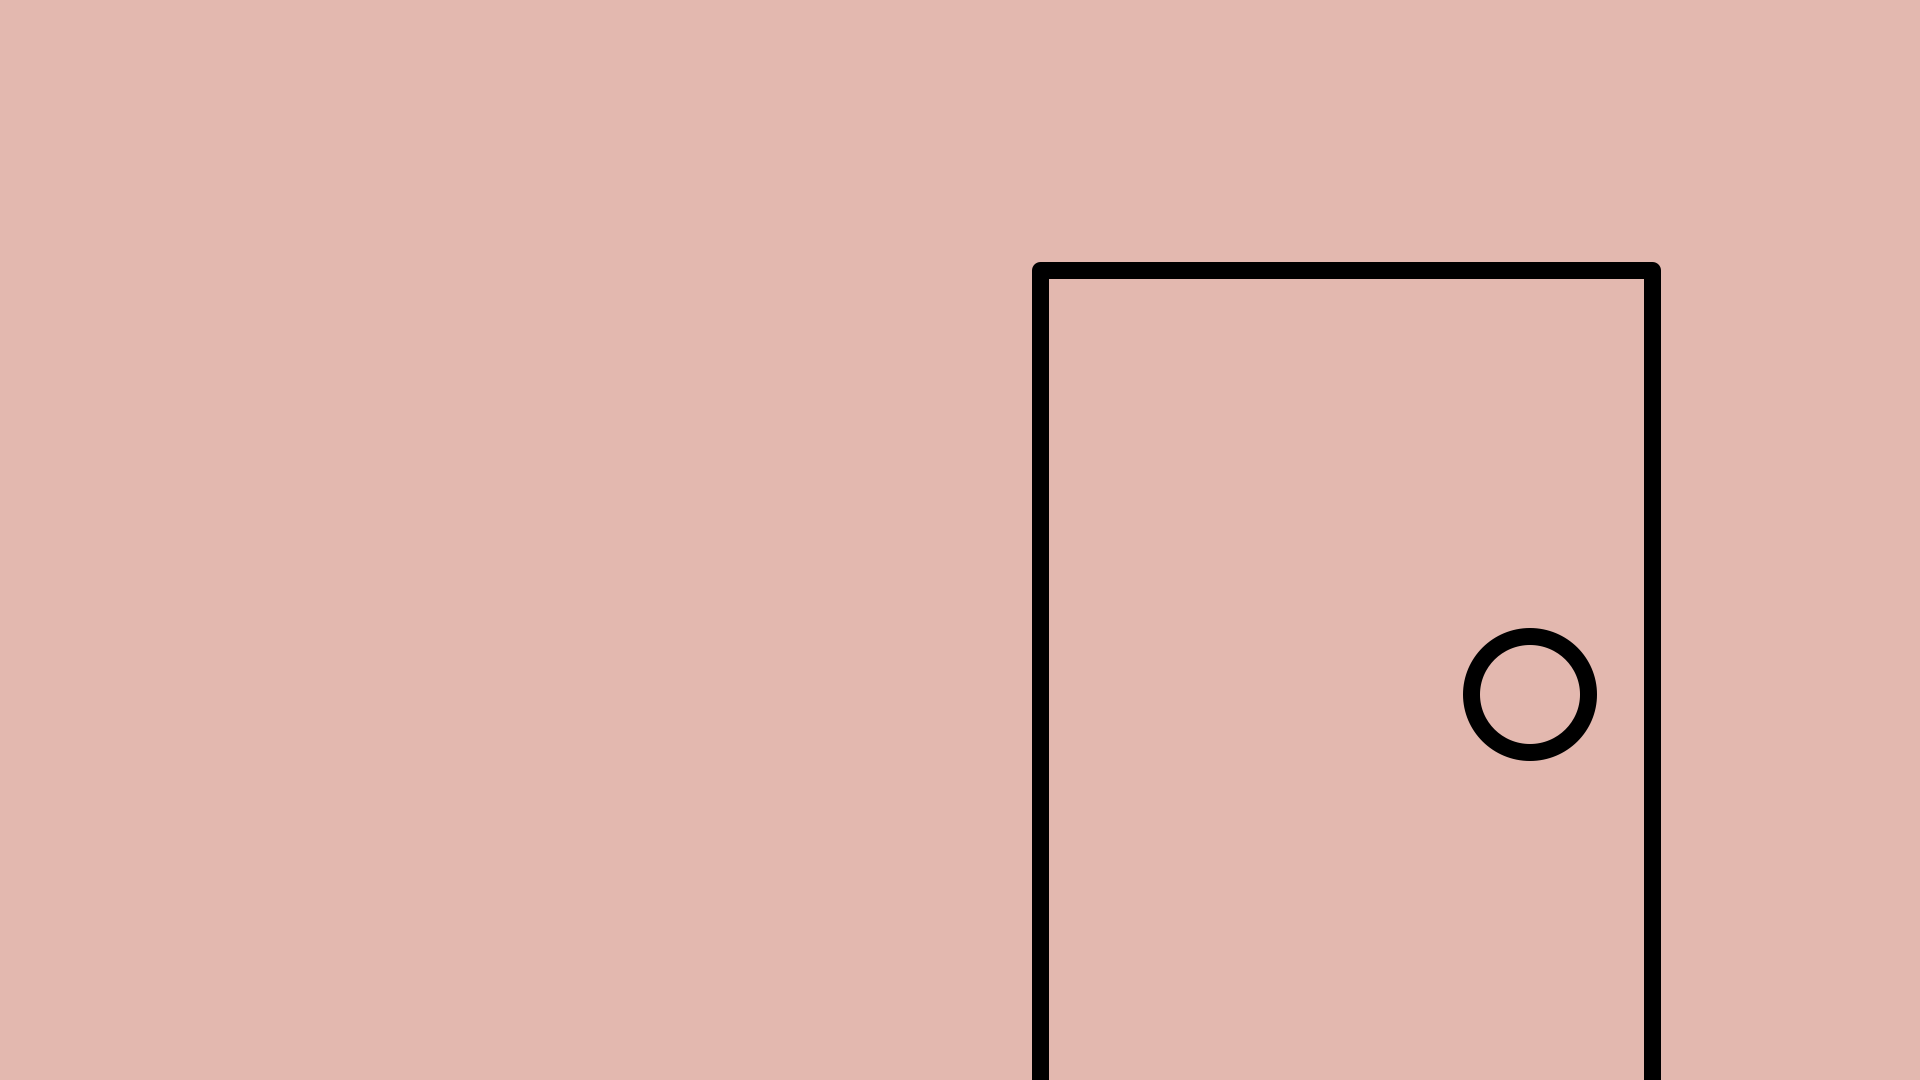
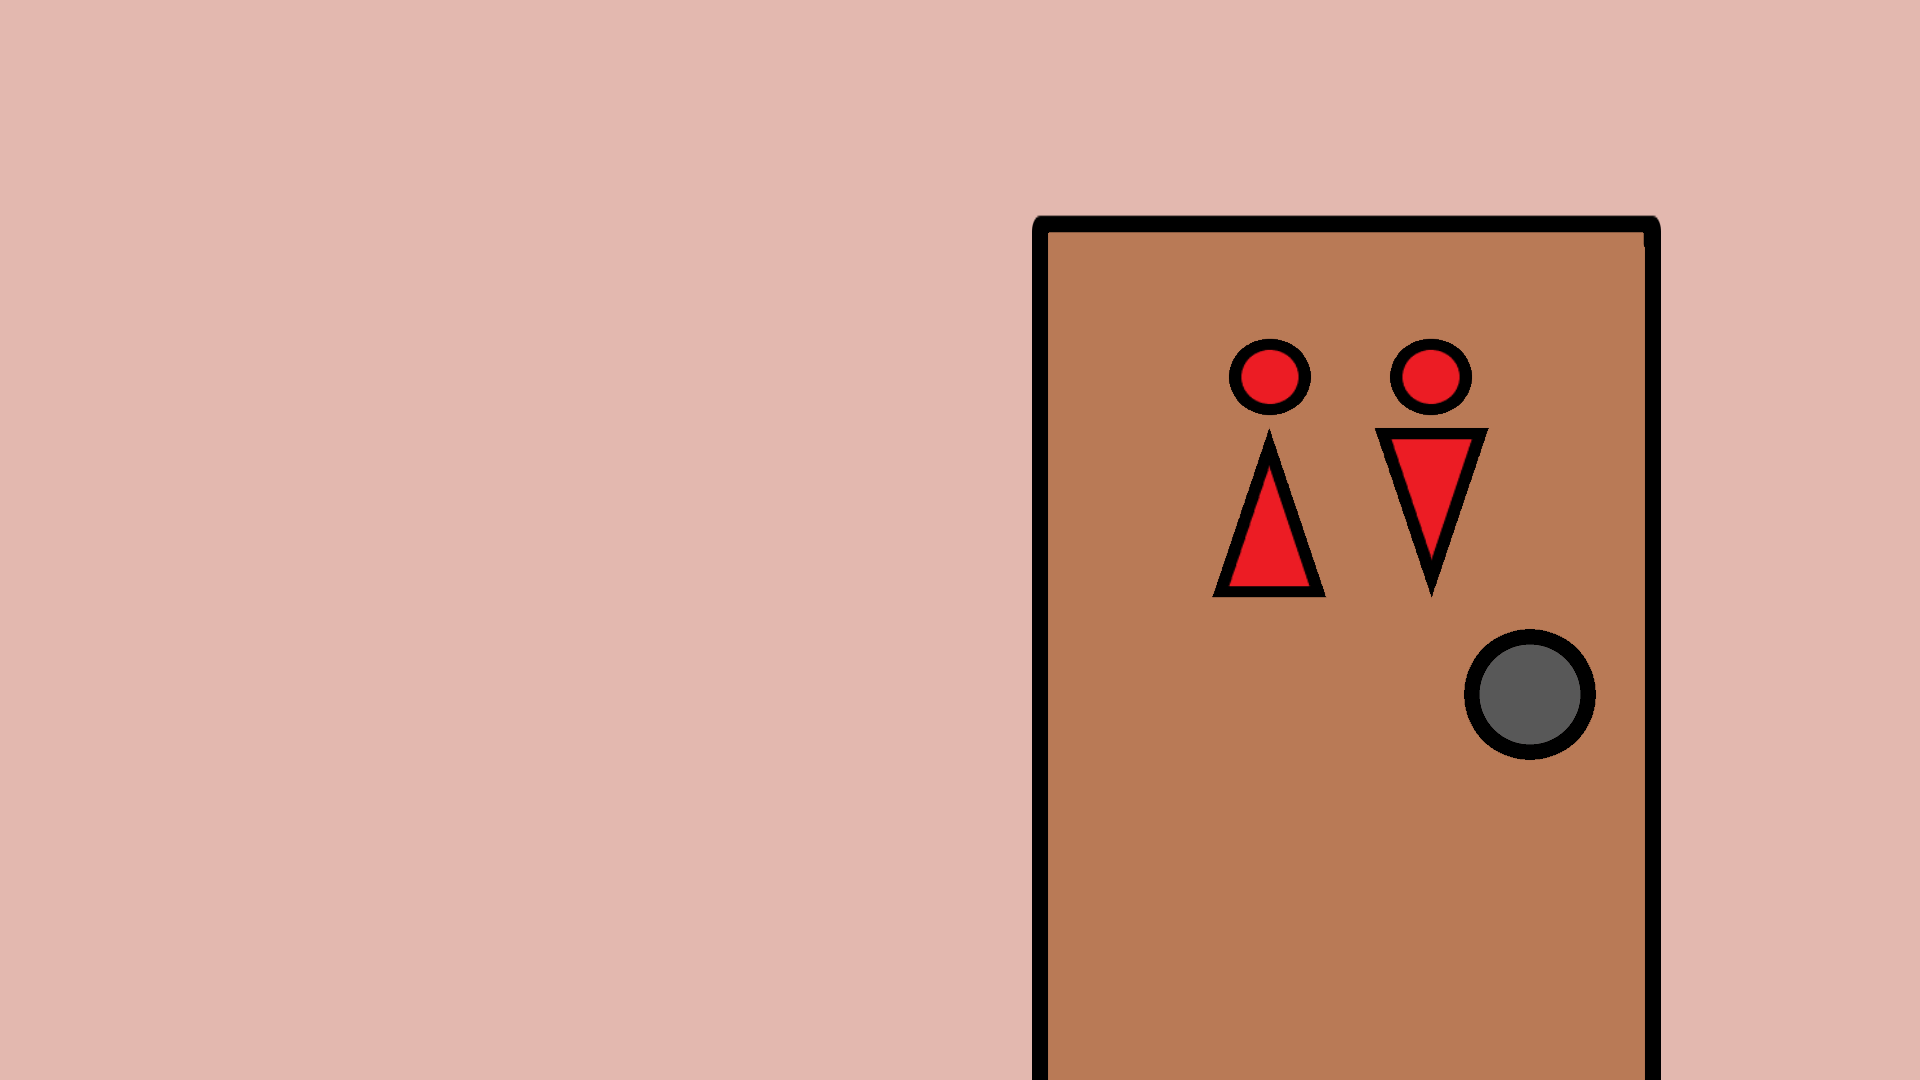
hammer, order of findings

Changed region(s): [[0.5312, 0.1833, 0.875, 1.0]]

diff --git a/globals.py b/globals.py
@@ -19,22 +19,39 @@ FPS = 60
 # Static on screen objects
 bp_rect = pygame.rect.Rect(WIDTH-200,0,200,200)
 
+# States of game
+clue0 = False
+note_collected = False
+clue1 = False
+clue2 = False
+clue3 = False
+clue4 = False
+using = None
+
 # Objects
 backpack = pygame.sprite.Group(bg.Background("backpack.png", bp_rect.topleft))
 dining1 = pygame.sprite.Group()
 dining2 = pygame.sprite.Group()
 dining3 = pygame.sprite.Group()
 dining4 = pygame.sprite.Group()
+bathroom = pygame.sprite.Group()
 egg_plate = pygame.sprite.Group()
 egg_note = pygame.sprite.Group()
 
 # Dining1
 funky_dude = robot.Robot(589, 312, 617,337, "ronin/Funky Dude.png", dining1, dining4, newsize=3)
-dining1.add(bg.Background("cool dude .png", size=(1280,720)), funky_dude, scene_changer.Scene_changer(WIDTH//2, HEIGHT-30, "arrow.png", dining1, dining3, rot=180, size=(50,30)), scene_changer.Scene_changer(WIDTH-230, HEIGHT//2, "arrow.png", dining1, dining2, rot=270, size=(50,30)))
+door = object.Object(722, 271, "door.png", "door", size=(80, 119))
+frame2 = object.Object(1073,235, "ronin/painting dude.png", "inactive")
+tile = object.Object(830, 542, "tilered.png", "tile")
+dining1.add(bg.Background("cool dude .png", size=(1280,720)), funky_dude, frame2, door, tile, scene_changer.Scene_changer(WIDTH//2, HEIGHT-30, "arrow.png", dining1, dining3, rot=180, size=(50,30)), scene_changer.Scene_changer(WIDTH-230, HEIGHT//2, "arrow.png", dining1, dining2, rot=270, size=(50,30)))
 
 # Dining2
 frame = object.Object(334,262, "frame.png", "frame", rot=352, size=(350,250))
-dining2.add(bg.Background("yes ronin it is.png", size=(1280,720)), frame, scene_changer.Scene_changer(30, HEIGHT//2, "arrow.png", dining2, dining1, rot=90, size=(50,30)), scene_changer.Scene_changer(WIDTH - 230, HEIGHT//2, "arrow.png", dining2, dining3, rot=270, size=(50,30)))
+dining2.add(bg.Background("yes ronin it is.png", size=(1280,720)), frame, scene_changer.Scene_changer(30, HEIGHT//2, "arrow.png", dining2, dining1, rot=90, size=(50,30)), scene_changer.Scene_changer(WIDTH - 230, HEIGHT//2, "arrow.png", dining2, dining3, rot=270, size=(50,30)), scene_changer.Scene_changer(904, 650, "arrow.png", dining2, bathroom, size=(50,30)))
+
+# Bathroom
+hammer = collectibles.Collectible(968, 442, "hammer.png", "use")
+bathroom.add(bg.Background("dining3.png", size=(1280, 720)), hammer, scene_changer.Scene_changer(WIDTH//2, HEIGHT - 30, "arrow.png", bathroom, dining2, rot=180, size=(50,30)))
 
 # Dining 3
 mannequin = object.Object(770, 500, "ronin/shirt man 2.png", "mannequin", size=(280, 409))
@@ -44,7 +61,7 @@ dining3.add(bg.Background("room zoom.png", size=(1280,720)), mannequin, scene_ch
 eggbtn = object.Object(631, 591, "ronin/order eggs.png", "eggbtn", size=(121, 62))
 eggs = object.Object(WIDTH + 200, 486, "ronin/hres plat.png", "eggs", size=(200, 30))
 # eggs = scene_changer.Scene_changer(WIDTH + 200, 304, "plate.png", dining4, egg_plate)
-dining4.add(bg.Background("Funky Dude is Literally Me.png", size=(1280,720)), funky_dude, eggbtn, eggs, scene_changer.Scene_changer(WIDTH//2, HEIGHT - 30, "arrow.png", dining4, dining1, rot=180, size=(50,30)))
+dining4.add(bg.Background("Funky Dude is Literally Me.png", size=(1280,720)), funky_dude, eggs, scene_changer.Scene_changer(WIDTH//2, HEIGHT - 30, "arrow.png", dining4, dining1, rot=180, size=(50,30)))
 
 # Eggs screen
 plate = scene_changer.Scene_changer(753,358, "eggs.png", egg_plate, egg_note)

diff --git a/sprites/object.py b/sprites/object.py
@@ -5,11 +5,12 @@ import time
 class Object(pygame.sprite.Sprite):
     def __init__(self, cx, cy, img, name, size=None, rot=0):
         super().__init__()
-        interactions = {"frame": self.animate_on, "eggbtn": self.order_eggs, "eggs": self.close_eggs}
+        interactions = {"frame": self.animate_on, "eggbtn": self.order_eggs, "eggs": self.close_eggs, "tile": self.break_tile}
         animations = {"frame": self.animate_frame, "eggs":self.animate_eggs}
-        hover = {"frame": True}
+        hover = {"frame": True, "door": True, "tile": True}
 
         # Set up
+        self.pos = (cx,cy)
         self.image = pygame.image.load(f"assets/graphics/{img}")
         if size:
             self.image = pygame.transform.scale(self.image, size)
@@ -42,12 +43,12 @@ class Object(pygame.sprite.Sprite):
     def is_hovered(self):
         mouse = pygame.mouse.get_pos()
         if self.rect.collidepoint(mouse):
-            pygame.mouse.set_cursor(pygame.cursors.Cursor(pygame.SYSTEM_CURSOR_HAND))
             if (self.shake_count > -1):
                 self.shake_count += 1
         else:
+            if self.hover:
+                self.rect.center = self.pos
             self.shake_count = 0
-            pygame.mouse.set_cursor(pygame.cursors.Cursor(pygame.SYSTEM_CURSOR_ARROW))
 
     def shake(self):
         self.rect.x += self.shake_dir
@@ -71,7 +72,13 @@ class Object(pygame.sprite.Sprite):
         pos = self.rect.center
         self.rect.center = (pos[0] - 30, pos[1] + 30)
         if self.rect.y > g.WIDTH:
+            g.clue0 = True
             self.animating = False
+            g.dining1.remove(g.frame2)
+            self.remove(g.dining2)
+            self.remove(g.on_screen)
+            g.clue0 = True
+            g.dining4.add(g.eggbtn)
 
     def animate_eggs(self):
         if self.rect.x <= 852:
@@ -88,3 +95,15 @@ class Object(pygame.sprite.Sprite):
 
     def order_eggs(self):
         g.eggs.start_eggs()
+
+    def break_tile(self):
+        if (self.counter == 0) and (g.using == g.hammer):
+            self.counter += 1
+            pos = self.rect.center
+            self.image = pygame.image.load(f"assets/graphics/tilebroken.png")
+            self.rect = self.image.get_rect()
+            self.rect.center = pos
+        elif self.counter == 1:
+            print("hey")
+            self.remove(g.dining1)
+            self.remove(g.on_screen)

diff --git a/sprites/collectibles.py b/sprites/collectibles.py
@@ -22,29 +22,36 @@ class Collectible(pygame.sprite.Sprite):
         self.name = None
         self.collected = False
 
-        if open_type == "open":
-            self.open = open
+        self.open = open_type
+        self.following = False
     
     def update(self):
         self.is_clicked()
+        if self.following:
+            self.follow()
 
     def is_clicked(self):
         mouse = pygame.mouse.get_pos()
         clicked = pygame.mouse.get_pressed()[0]
         if clicked:
-            # print("Click")
             if self.collected:
-                print("o")
-                if not self.rect.collidepoint(mouse):
-                    self.collect()
-                    print("collect2")
-                else:
-                    self.pop_up()
-                    print("pop")
+                if self.open == "open":
+                    if not self.rect.collidepoint(mouse):
+                        self.collect()
+                    else:
+                        self.pop_up()
+                elif self.open == "use":
+                    if self.following:
+                        self.following = False
+                        self.collect()
+                        g.using = None
+                    if self.rect.collidepoint(mouse):
+                        self.pop_up()
+                        self.following = True
+                        g.using = self
             else:
                 if self.rect.collidepoint(mouse):
                     self.collect()
-                    print("collect1") 
     
     def collect(self):
         self.image = pygame.transform.scale(self.image, (25,25))
@@ -73,3 +80,7 @@ class Collectible(pygame.sprite.Sprite):
         self.remove(g.backpack)
         self.add(g.on_screen)
         time.sleep(0.15)
+
+    def follow(self):
+        mouse = pygame.mouse.get_pos()
+        self.rect.topleft = mouse
